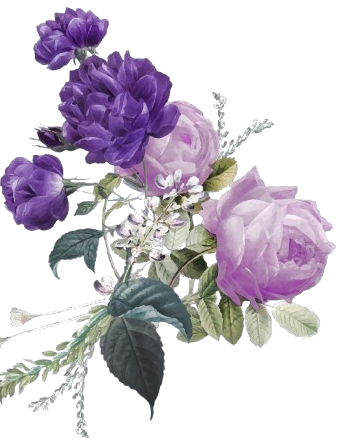
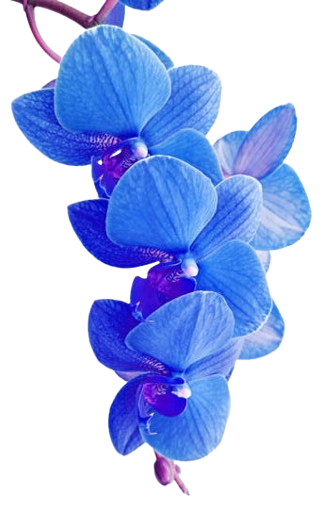
fix projects and contact section .. add one flower on top right of heros ection

diff --git a/src/components/Projects.jsx b/src/components/Projects.jsx
@@ -1,15 +1,17 @@
 "use client"
 
 import { useInView, motion } from 'framer-motion'
-import React, { useRef } from 'react'
+import React, { useEffect, useRef } from 'react'
 import { ProjectCard } from './project-card'
 import { ExternalLink } from 'lucide-react'
 import Image from 'next/image'
+import gsap from 'gsap'
+import {ScrollTrigger} from 'gsap/ScrollTrigger'
+gsap.registerPlugin(ScrollTrigger)
 
 const Projects = () => {
 
-  const projectsRef = useRef(null)
-  const projectsInView = useInView(projectsRef, { once: true, amount: 0.2 })
+  const projectRef = useRef([])
 
   const projects = [
     {
@@ -38,6 +40,27 @@ const Projects = () => {
     },
   ]
 
+  useEffect(() => {
+    projectRef.current && projectRef.current.forEach((el, index) => {
+      gsap.to(
+        el,
+        {
+          opacity: 1,
+          x: 0,
+          duration: 0.8,
+          delay: index * 0.1,
+          ease: "power3.out",
+          scrollTrigger: {
+            trigger: el,
+            start: "top 85%",
+            toggleActions: "play none none reverse",
+          },
+        }
+      )
+    })
+  }, [projectRef.current])
+
+  console.log(projectRef.current)
   return (
     <>
       {/* Projects Section */}
@@ -49,8 +72,19 @@ const Projects = () => {
             alt="top right image"
             height={500}
             width={500}
-            src='/flowers/projects/gettyimages-114248901-612x612-removebg-preview.png'
+            src='/flowers/projects/top-right.png'
             className=' w-full'
+          />
+        </div>
+
+        {/* bottom image  */}
+        <div className=' absolute md:bottom-0 -bottom-[350px] -right-5 md:w-[500px] w-full md:z-10'>
+          <Image
+            alt="top right image"
+            height={500}
+            width={500}
+            src='/flowers/projects/bottom-right.png'
+            className=' w-full '
           />
         </div>
 
@@ -59,20 +93,14 @@ const Projects = () => {
         <div className="absolute bottom-0 right-0 -z-10 w-72 h-72 bg-purple-500 opacity-10 rounded-full blur-3xl" />
 
         {/* card content  */}
-        <div className=' px-4 md:px-6 lg:px-8 max-w-6xl mx-auto z-10 relative md:mt-0 pt-[400px]'>
-          <motion.div
-            ref={projectsRef}
-            style={{
-              opacity: projectsInView ? 1 : 0,
-              transform: projectsInView ? "translateY(0)" : "translateY(50px)",
-              transition: "all 0.9s cubic-bezier(0.17, 0.55, 0.55, 1) 0.2s",
-            }}
-          >
+        <div className=' px-4 md:px-6 lg:px-8 max-w-6xl mx-auto z-10 relative md:pt-20 pt-[400px]'>
+          <motion.div>
 
             {/* Cards */}
-            <div className=" flex flex-col items-start gap-8 ">
+            <div className=" flex flex-col items-start ">
               {projects.map((project, index) => (
                 <ProjectCard
+                  divref={el => projectRef.current[index] = el}
                   key={index}
                   project={project}
                   index={index}
@@ -80,7 +108,7 @@ const Projects = () => {
               ))}
 
               {/* View all button */}
-              <div className=" md:w-[500px] text-center ">
+              <div className=" md:w-[500px] w-full text-center ">
                 <button
                   className="
               border-[#ffffff]/20  text-white 

diff --git a/src/components/project-card.jsx b/src/components/project-card.jsx
@@ -1,23 +1,22 @@
 "use client"
 
-import { useState } from "react"
+import { useEffect, useRef, useState } from "react"
 import { motion } from "framer-motion"
 import { ExternalLink, Github } from "lucide-react"
 import { Card, CardContent } from "./ui/card"
 
-export function ProjectCard({ project, index, onMouseEnter, onMouseLeave }) {
+export function ProjectCard({ project, index, onMouseEnter, onMouseLeave, divref }) {
   const [isHovered, setIsHovered] = useState(false)
 
   return (
     <motion.div
-      initial={{ opacity: 0, y: 50 }}
-      animate={{ opacity: 1, y: 0 }}
+      ref={divref}
       onHoverStart={() => setIsHovered(true)}
       onHoverEnd={() => setIsHovered(false)}
       onTouchStart={() => setIsHovered(true)}
       onTouchEnd={() => setIsHovered(false)}
       transition={{ duration: 0.5, delay: index * 0.1 }}
-      className={` md:w-[500px] pb-10 border-white ${index < 2 ? " border-b-2 " : ""}`}
+      className={` md:w-[500px] pb-10 -translate-x-[200px] opacity-0 border-white ${index < 2 ? " border-b-2 " : ""}`}
     >
       <Card className="overflow-hidden flex flex-col relative border-0 shadow-xl   backdrop-blur-sm  group">
         <div className=" relative">

diff --git a/src/components/Contact.jsx b/src/components/Contact.jsx
@@ -12,7 +12,7 @@ const Contact = () => {
     <section
       ref={ref}
       id="contact"
-      className="section pb-20 px-4 md:px-6 lg:px-8 max-w-6xl mx-auto relative z-10"
+      className="section pb-20 md:mt-0 mt-[200px] px-4 md:px-6 lg:px-8 max-w-6xl mx-auto relative z-10"
     >
       {/* <div className="absolute inset-0 -z-10  " /> */}
 
@@ -23,18 +23,6 @@ const Contact = () => {
           transition: "all 0.9s cubic-bezier(0.17, 0.55, 0.55, 1) 0.2s",
         }}
       >
-        <div className="text-center mb-12">
-          <h2 className="text-3xl md:text-4xl font-bold inline-block relative text-white">
-            Get In Touch
-            <motion.div
-              className="absolute -bottom-2 left-0 h-1 bg-violet-500 rounded-full"
-              initial={{ width: 0 }}
-              animate={isInView ? { width: "100%" } : { width: 0 }}
-              transition={{ duration: 0.8, delay: 0.4 }}
-            />
-          </h2>
-        </div>
-
         <div className="grid md:grid-cols-2 gap-8">
           {/* Left: Info Card */}
           <div className=" bg-opacity-60 backdrop-blur-sm p-8 rounded-xl shadow-lg border border-violet-800 relative text-violet-100">

diff --git a/src/components/HeroSection.jsx b/src/components/HeroSection.jsx
@@ -77,6 +77,17 @@ const HeroSection = () => {
                     />
                 </div>
 
+                {/* top right flower  */}
+                <div className='md:w-[500px] sm:w-[300px] w-[200px] md:block hidden absolute -top-10 -right-0 z-20'>
+                    <Image
+                    width={500}
+                    height={500}
+                    alt='top left flower'
+                    src="/flowers/hero/top-right.png"
+                    className=' w-full  '
+                    />
+                </div>
+
                
             </section>
 

diff --git a/src/components/About.jsx b/src/components/About.jsx
@@ -14,7 +14,7 @@ const About = () => {
             <div className=' px-4 md:px-6 lg:px-8 max-w-6xl mx-auto'>
 
                 {/* top right flower  */}
-                <div className=' md:w-[60%] w-[350px] absolute  -top-70 -right-15 z-20'>
+                <div className=' md:w-[600px] w-full absolute  -top-50 -right-15 z-20'>
                     <Image
                         width={600}
                         height={600}

diff --git a/src/components/Skill.jsx b/src/components/Skill.jsx
@@ -61,7 +61,7 @@ const Skill = () => {
                 </div>
 
                 {/* left side flower  */}
-                <div className=' absolute top-[60%] -left-10 md:w-[550px] w-full z-0 -rotate-20'>
+                <div className=' md:block hidden absolute top-[60%] -left-10 md:w-[550px] z-0 -rotate-20'>
                     <Image
                         alt="bottom left image"
                         height={500}

diff --git a/src/app/page.js b/src/app/page.js
@@ -16,14 +16,6 @@ gsap.registerPlugin(ScrollTrigger)
 
 export default function Home() {
 
-  useEffect(() => {
-    window.addEventListener("scroll", () => {
-
-      console.log(window.scrollY)
-    })
-  }, [])
-
-
   return (
     <>
       <div className=' bg-black overflow-hidden'>

diff --git a/src/model/model.jsx b/src/model/model.jsx
@@ -184,8 +184,6 @@ const Model = () => {
         }
     }, [bee, arrPositionModel])
 
-    console.log(ismobile)
-
     return (
         <canvas className="webgl fixed top-0 left-0 z-0"></canvas>
     )
